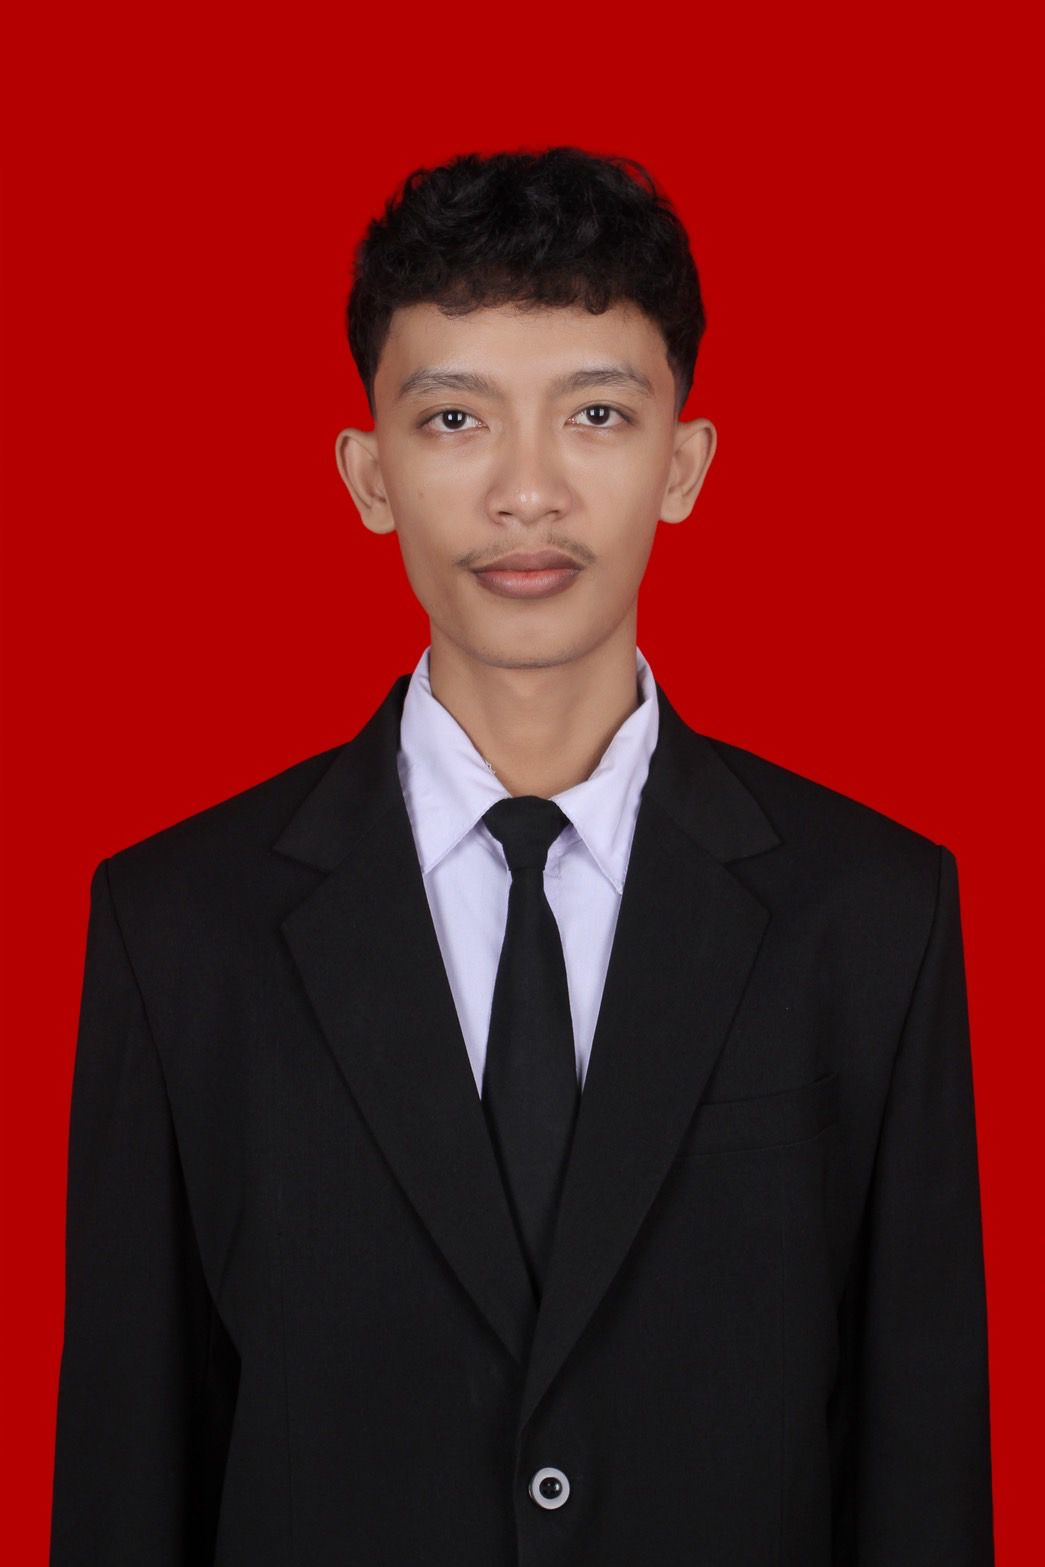
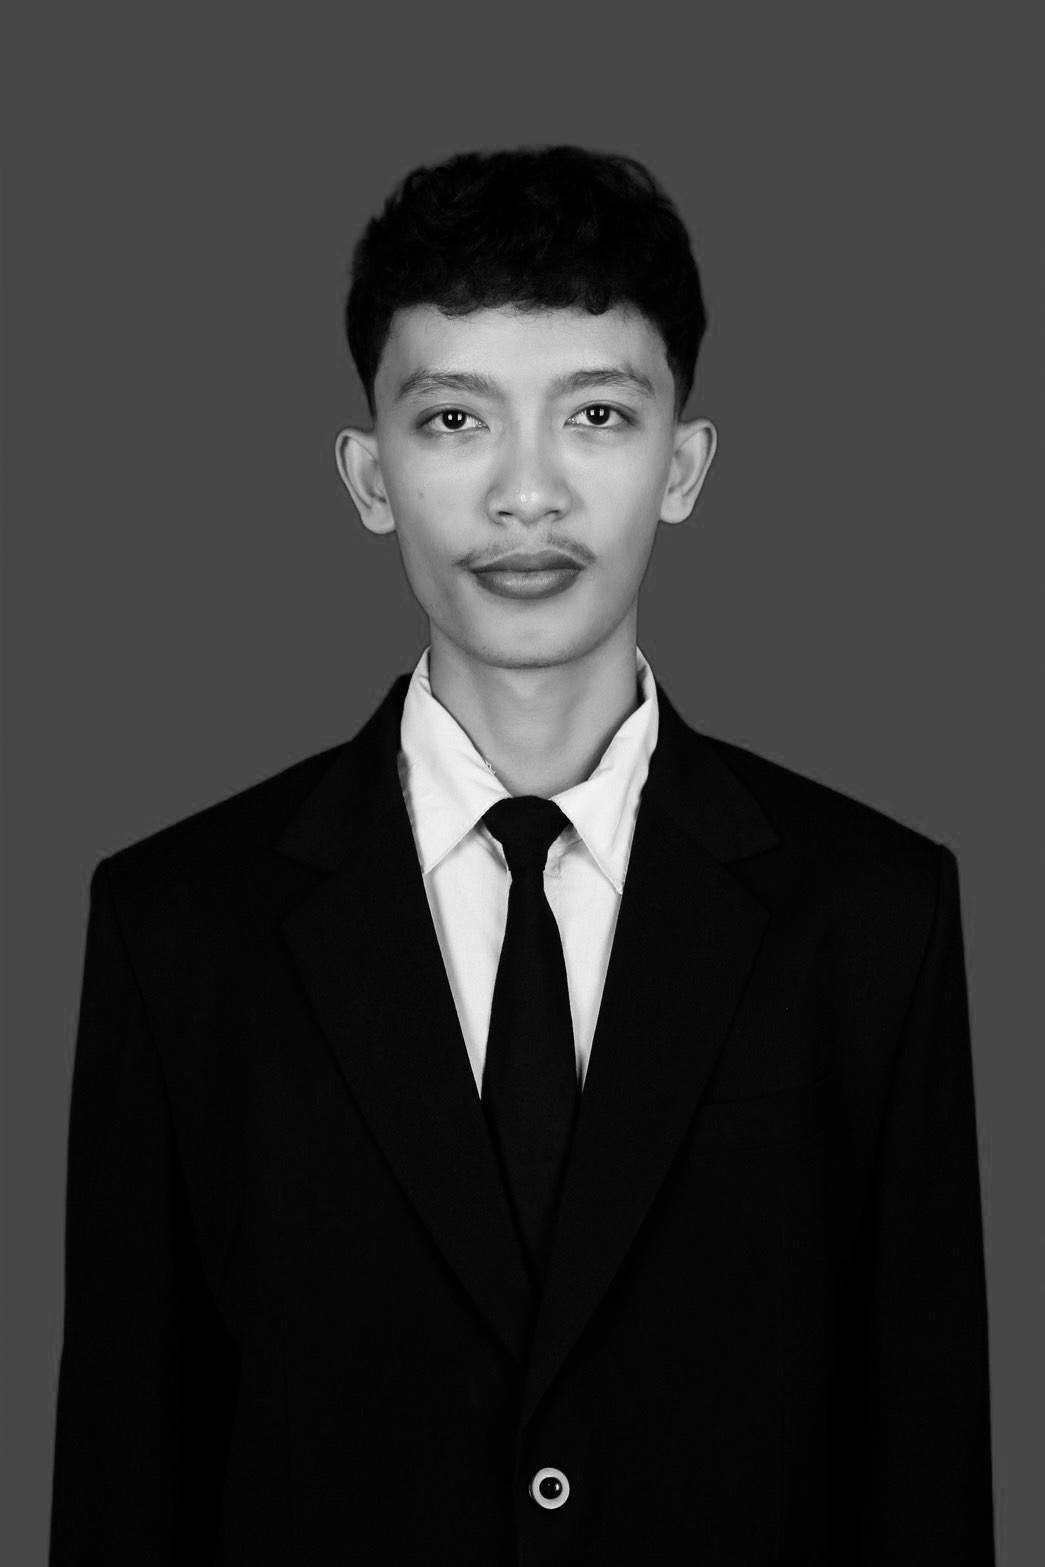
ganti background

diff --git a/index.html b/index.html
@@ -29,11 +29,11 @@
             <div class="theme-toggle" id="themeToggle" aria-label="Toggle theme">
                 <button class="theme-option" data-theme="light">
                     <span class="theme-checkbox"></span>
-                    <span class="theme-label">LIGHT</span>
+                    <span class="theme-label">DARK BROWN</span>
                 </button>
                 <button class="theme-option" data-theme="dark">
                     <span class="theme-checkbox"></span>
-                    <span class="theme-label">DARK</span>
+                    <span class="theme-label">WINE BERRY</span>
                 </button>
                 <button class="theme-option" data-theme="mono">
                     <span class="theme-checkbox"></span>
@@ -55,11 +55,11 @@
             <div class="theme-toggle mobile-theme-toggle" id="mobileThemeToggle" aria-label="Toggle theme">
                 <button class="theme-option" data-theme="light">
                     <span class="theme-checkbox"></span>
-                    <span class="theme-label">L</span>
+                    <span class="theme-label">B</span>
                 </button>
                 <button class="theme-option" data-theme="dark">
                     <span class="theme-checkbox"></span>
-                    <span class="theme-label">D</span>
+                    <span class="theme-label">W</span>
                 </button>
                 <button class="theme-option" data-theme="mono">
                     <span class="theme-checkbox"></span>

diff --git a/js/script.js b/js/script.js
@@ -56,7 +56,7 @@ const projectsData = {
         title: "CSS Grid Documentation",
         year: "2025",
         role: "Frontend Developer",
-        description: "Proyek Technical Documentation Page dari freeCodeCamp certification. Dokumentasi interaktif CSS Grid Layout dalam bahasa Indonesia dengan struktur semantik, navigasi fixed sidebar, syntax-highlighted code examples, dan implementasi mobile-first responsive design.",
+        description: "Proyek Build a Technical Documentation Page dari freeCodeCamp Responsive Web Design Certification. Dokumentasi lengkap CSS Grid dengan navigasi interaktif, contoh kode praktis, dan responsive design menggunakan media queries.",
         tags: ["HTML5", "CSS3", "CSS Grid", "Responsive Design", "Documentation"],
         images: ["images/css.png"],
         liveUrl: " https://devsayed-spec.github.io/Build-a-Technical-Documentation-Page/",
@@ -74,7 +74,7 @@ const body = document.body;
 
 const themeOptions = document.querySelectorAll('.theme-option');
 
-let currentColorTheme = 'dark';
+let currentColorTheme = 'wine';
 let monoEnabled = false;
 
 function updateThemeUI() {
@@ -126,7 +126,7 @@ themeOptions.forEach(option => {
     option.addEventListener('click', handleThemeClick);
 });
 
-const savedColorTheme = localStorage.getItem('colorTheme') || 'dark';
+const savedColorTheme = localStorage.getItem('colorTheme') || 'wine';
 const savedMonoEnabled = localStorage.getItem('monoEnabled') === 'true';
 
 currentColorTheme = savedColorTheme;

diff --git a/css/style.css b/css/style.css
@@ -2,23 +2,23 @@
    CSS Variables & Reset
    =========================== */
 :root {
-    --bg-primary: #0a0a0a;
-    --bg-secondary: #111111;
-    --text-primary: #ffffff;
-    --text-secondary: #888888;
-    --border-color: #1a1a1a;
-    --accent-color: #ffffff;
-    --hover-bg: #151515;
+    --bg-primary: #50242A;
+    --bg-secondary: #3d1e23;
+    --text-primary: #E2D6C9;
+    --text-secondary: #a89886;
+    --border-color: #6b2f35;
+    --accent-color: #E2D6C9;
+    --hover-bg: #5d2a30;
 }
 
 [data-theme="light"] {
-    --bg-primary: #e8e8e8;
-    --bg-secondary: #f5f5f5;
-    --text-primary: #000000;
-    --text-secondary: #666666;
-    --border-color: #d0d0d0;
-    --accent-color: #000000;
-    --hover-bg: #dedede;
+    --bg-primary: #3A2E29;
+    --bg-secondary: #2d2420;
+    --text-primary: #E2D6C9;
+    --text-secondary: #9b8d7f;
+    --border-color: #4a3d36;
+    --accent-color: #E2D6C9;
+    --hover-bg: #443730;
 }
 
 body.mono-active {
